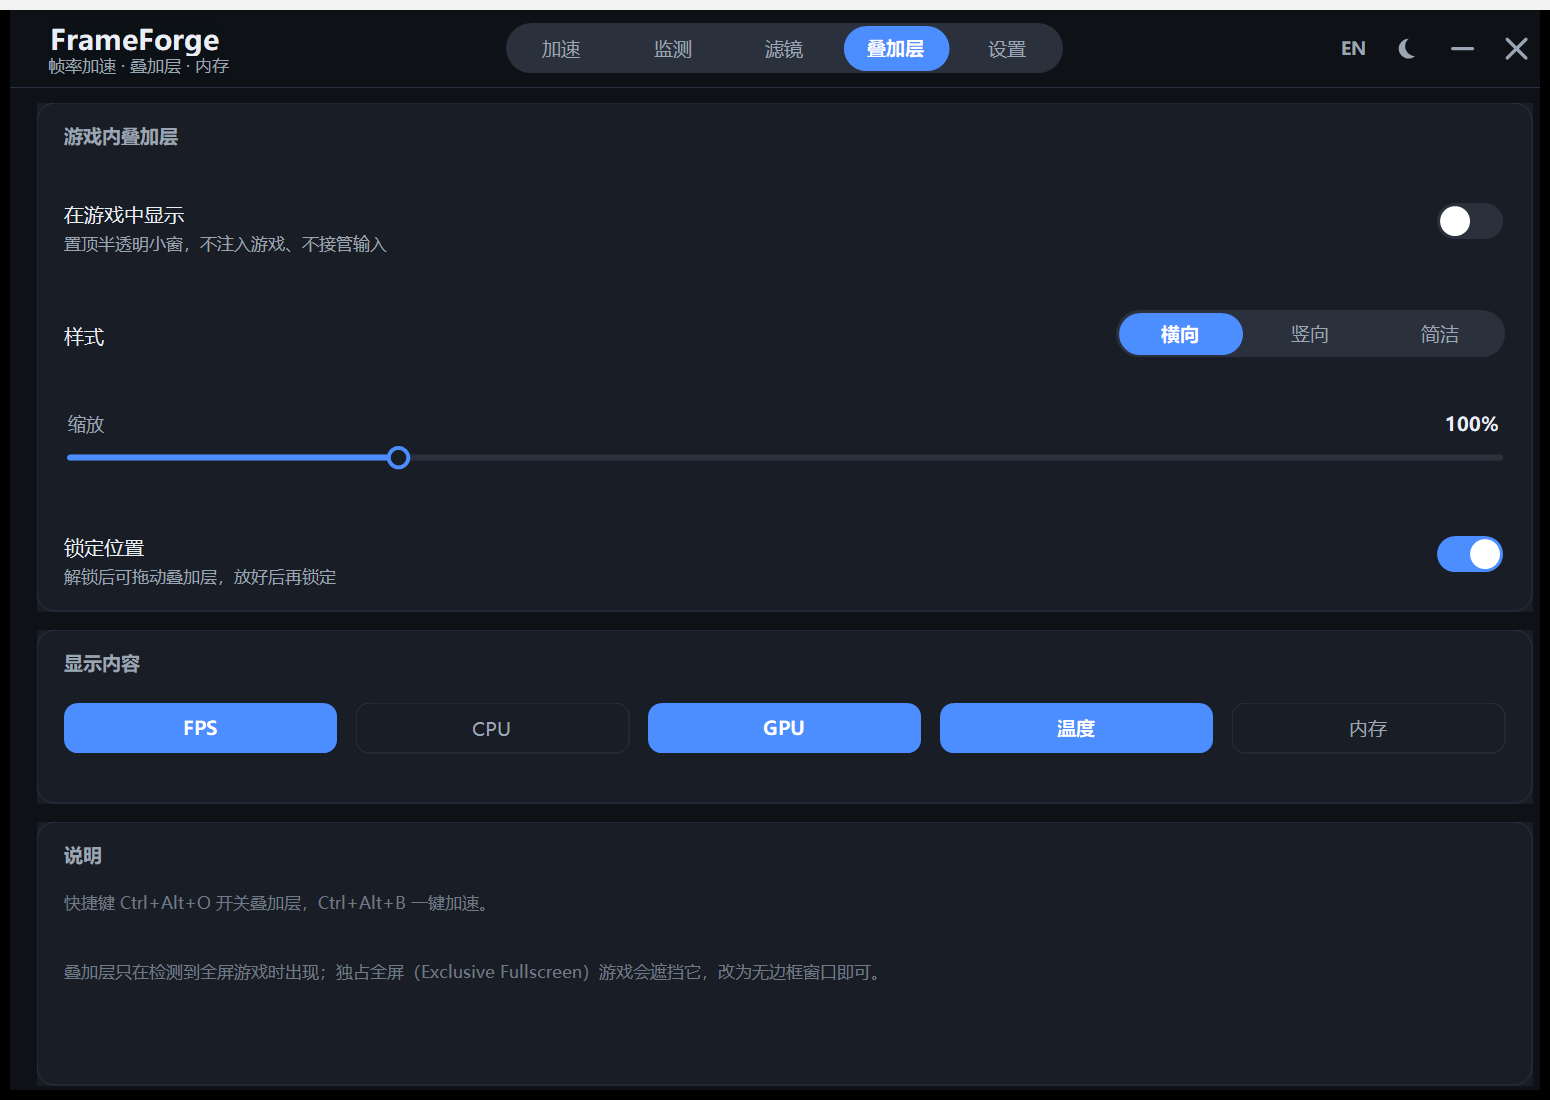
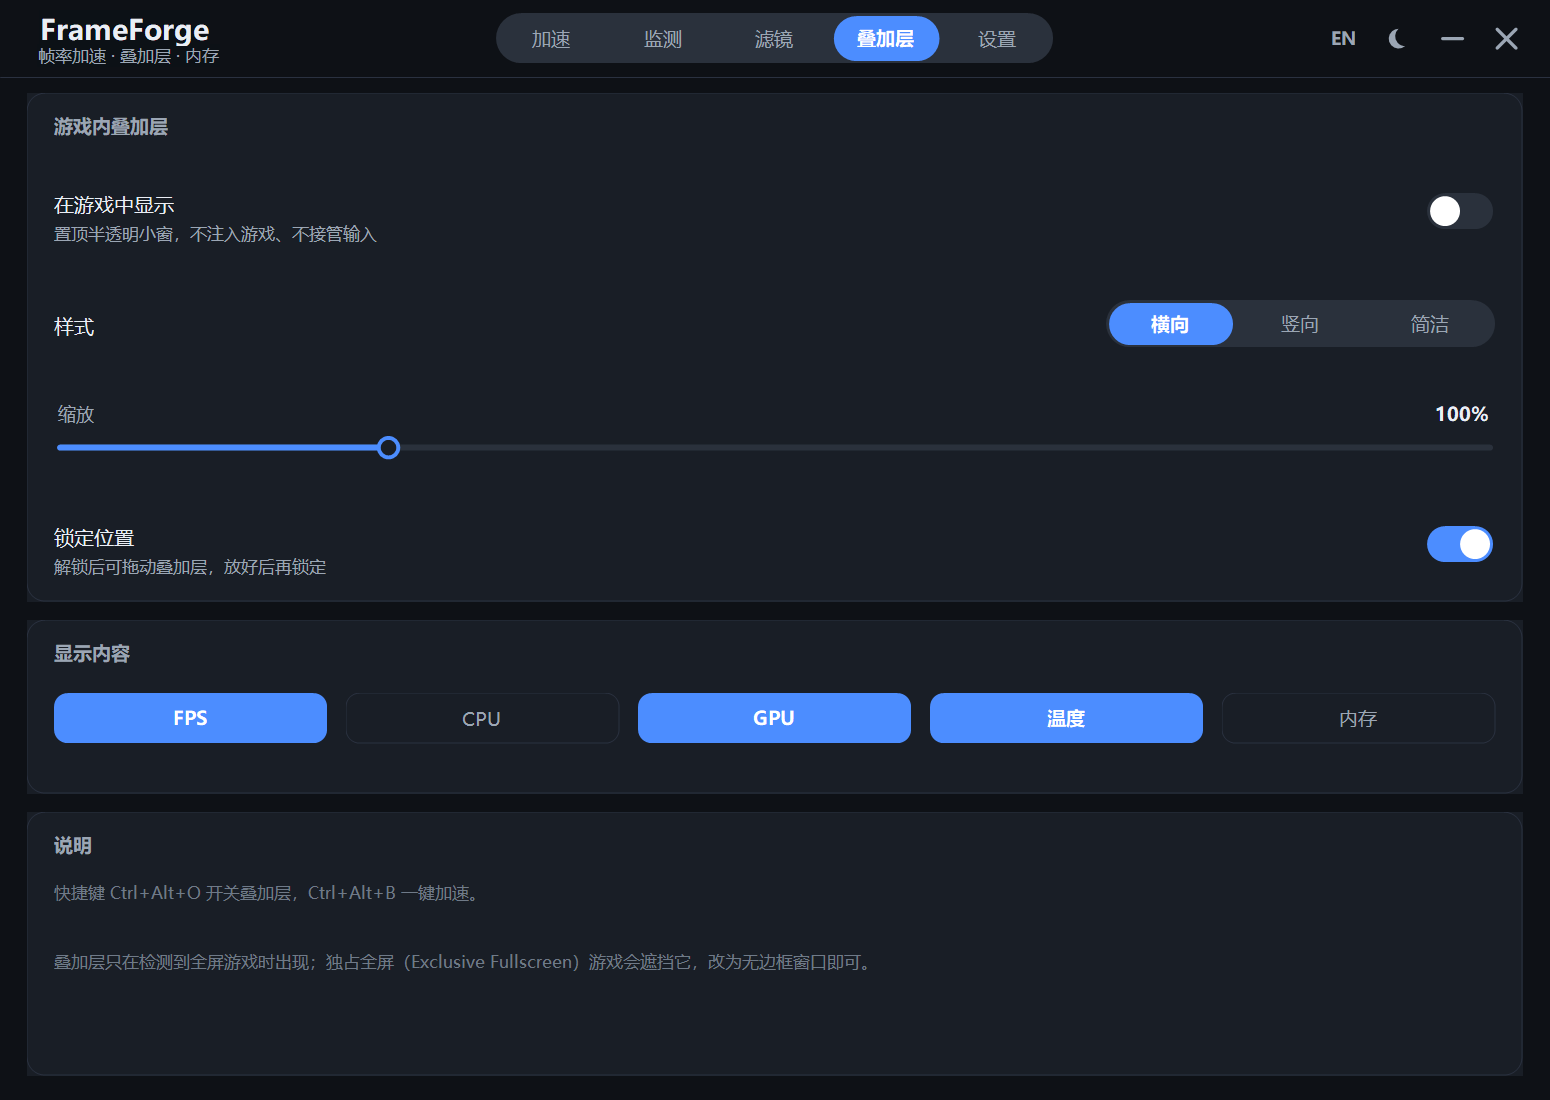
fix: 去掉窗口顶部的系统边框白条，重绘月亮图标
无边框窗口仍带一圈 WS_THICKFRAME 系统边框（用于拖边缘改大小），
DWM 会把它填成系统边框色，深色界面上就是标题栏上方那道白标。
现在用 WM_NCCALCSIZE 让客户区铺满窗口矩形，四边改大小改由 WM_NCHITTEST
自己算热区；最大化时按工作区裁剪，避开任务栏。

月亮图标原来是"实心圆 + BackColor 盖一块"，悬停高亮时会在图标上留下补丁，
改为按两圆交点拼双圆弧路径填充，任何底色下都是干净的月牙。

顺带把 README 的 exe 体积更新为 200 KB，并重新生成夜间截图。

diff --git a/src/UI/MainForm.cs b/src/UI/MainForm.cs
@@ -1,6 +1,7 @@
 using System;
 using System.Drawing;
 using System.Drawing.Drawing2D;
+using System.Runtime.InteropServices;
 using System.Windows.Forms;
 using FrameForge.Sys;
 
@@ -19,6 +20,7 @@ namespace FrameForge.UI
         public BoostEngine Boost;
 
         private const int WM_NCHITTEST = 0x0084;
+        private const int WM_NCCALCSIZE = 0x0083;
         private const int WS_THICKFRAME = 0x00040000;
         private const int WS_MINIMIZEBOX = 0x00020000;
         private const int WS_MAXIMIZEBOX = 0x00010000;
@@ -244,6 +246,28 @@ namespace FrameForge.UI
         {
             base.OnHandleCreated(e);
             RegisterHotkeys();
+            ApplyWindowFrame();
+        }
+
+        /// <summary>
+        /// 无边框窗口仍然保留了一圈 WS_THICKFRAME 的系统边框(拖边缘改大小要用),
+        /// DWM 会给这圈边框描一条 1px 的浅色线——在深色界面上就是标题栏上方那道白边。
+        /// 这里把边框色改成与背景一致(Win11 22000+),更老的系统退化为深色沉浸模式。
+        /// </summary>
+        private void ApplyWindowFrame()
+        {
+            if (!IsHandleCreated) return;
+            try
+            {
+                int dark = Theme.Dark ? 1 : 0;
+                if (Native.DwmSetWindowAttribute(Handle, 20, ref dark, 4) != 0)
+                    Native.DwmSetWindowAttribute(Handle, 19, ref dark, 4);
+
+                Color bg = Theme.Bg;
+                int colorRef = bg.R | (bg.G << 8) | (bg.B << 16);
+                Native.DwmSetWindowAttribute(Handle, 34, ref colorRef, 4);
+            }
+            catch { }
         }
 
         private void OnTick()
@@ -369,15 +393,50 @@ namespace FrameForge.UI
             if (m.Msg == Native.WM_HOTKEY) { HandleHotkey(m.WParam.ToInt32()); return; }
             if (m.Msg == Native.WM_SHOWME) { RestoreFromTray(); return; }
 
+            if (m.Msg == WM_NCCALCSIZE)
+            {
+                if (m.WParam != IntPtr.Zero)
+                {
+                    // 让客户区铺满整个窗口矩形。WS_THICKFRAME 留下的那一圈边框会被 DWM 填成
+                    // 系统边框色:浅色主题下是 #F3F3F3,在深色界面上就是标题栏上方那道白标。
+                    if (WindowState == FormWindowState.Maximized)
+                    {
+                        Native.RECT r = (Native.RECT)Marshal.PtrToStructure(m.LParam, typeof(Native.RECT));
+                        Rectangle wa = Screen.FromHandle(Handle).WorkingArea;
+                        r.Left = wa.Left; r.Top = wa.Top; r.Right = wa.Right; r.Bottom = wa.Bottom;
+                        Marshal.StructureToPtr(r, m.LParam, false);
+                    }
+                    m.Result = IntPtr.Zero;
+                    return;
+                }
+            }
+
             if (m.Msg == WM_NCHITTEST)
             {
                 base.WndProc(ref m);
+                int lp = m.LParam.ToInt32();
+                short sx = unchecked((short)(lp & 0xFFFF));
+                short sy = unchecked((short)((lp >> 16) & 0xFFFF));
+                Point p = PointToClient(new Point(sx, sy));
+
+                // 边框被吃掉后系统不再返回 HTLEFT/HTRIGHT…,四边改大小的热区得自己算。
+                if (WindowState == FormWindowState.Normal)
+                {
+                    int b = Ui.Px(5);
+                    bool left = p.X < b, right = p.X >= ClientSize.Width - b;
+                    bool top = p.Y < b, bottom = p.Y >= ClientSize.Height - b;
+                    if (top && left) { m.Result = (IntPtr)Native.HTTOPLEFT; return; }
+                    if (top && right) { m.Result = (IntPtr)Native.HTTOPRIGHT; return; }
+                    if (bottom && left) { m.Result = (IntPtr)Native.HTBOTTOMLEFT; return; }
+                    if (bottom && right) { m.Result = (IntPtr)Native.HTBOTTOMRIGHT; return; }
+                    if (left) { m.Result = (IntPtr)Native.HTLEFT; return; }
+                    if (right) { m.Result = (IntPtr)Native.HTRIGHT; return; }
+                    if (top) { m.Result = (IntPtr)Native.HTTOP; return; }
+                    if (bottom) { m.Result = (IntPtr)Native.HTBOTTOM; return; }
+                }
+
                 if ((int)m.Result == Native.HTCLIENT)
                 {
-                    int lp = m.LParam.ToInt32();
-                    short sx = unchecked((short)(lp & 0xFFFF));
-                    short sy = unchecked((short)((lp >> 16) & 0xFFFF));
-                    Point p = PointToClient(new Point(sx, sy));
                     if (p.Y >= 0 && p.Y < TitleH()) m.Result = (IntPtr)Native.HTCAPTION;
                 }
                 return;

diff --git a/src/UI/Controls.cs b/src/UI/Controls.cs
@@ -274,11 +274,27 @@ namespace FrameForge.UI
                 {
                     if (Theme.Dark)
                     {
-                        // 月亮:实心圆挖掉一块
-                        using (var b = new SolidBrush(fg))
-                            g.FillEllipse(b, cx - r, cy - r, r * 2, r * 2);
-                        using (var b2 = new SolidBrush(BackColor))
-                            g.FillEllipse(b2, cx - r * 0.35f, cy - r * 1.25f, r * 2.0f, r * 2.0f);
+                        // 月亮:拿两个圆的交点拼出一条双圆弧路径再填充。
+                        // 早先是"画个实心圆,再用 BackColor 盖掉一块"——底色一变(悬停高亮、换页)
+                        // 盖子就会在图标上留下一块补丁,而且盖出来的边没有抗锯齿。
+                        float bx = cx + r * 0.65f, by = cy - r * 0.25f;
+                        double dx = bx - cx, dy = by - cy;
+                        double d2 = Math.Sqrt(dx * dx + dy * dy);
+                        if (d2 < r * 0.1) d2 = r * 0.1;
+                        double proj = d2 / 2.0;                       // 两圆等径,交点连线正好在中间
+                        double half = Math.Sqrt(Math.Max(0.0, (double)r * r - proj * proj));
+                        double baseAng = Math.Atan2(dy, dx) * 180.0 / Math.PI;
+                        double off = Math.Atan2(half, proj) * 180.0 / Math.PI;
+
+                        var ob = new RectangleF(cx - r, cy - r, r * 2, r * 2);
+                        var ib = new RectangleF(bx - r, by - r, r * 2, r * 2);
+                        using (var mp = new GraphicsPath())
+                        {
+                            mp.AddArc(ob, (float)(baseAng + off), (float)(360.0 - off * 2.0));
+                            mp.AddArc(ib, (float)(baseAng + 180.0 + off), (float)(-off * 2.0));
+                            mp.CloseFigure();
+                            using (var b = new SolidBrush(fg)) g.FillPath(b, mp);
+                        }
                     }
                     else
                     {

diff --git a/src/UI/MainForm.Actions.cs b/src/UI/MainForm.Actions.cs
@@ -59,6 +59,7 @@ namespace FrameForge.UI
             Theme.Set(St.Dark);
             Theme.ResetFonts();
             BackColor = Theme.Bg;
+            ApplyWindowFrame();
 
             int idx = activePage;
             if (pages != null)

diff --git a/README.md b/README.md
@@ -1,10 +1,10 @@
 # FrameForge
 
 **一个绿色免安装的 FPS 游戏增效工具：一键加速、实时帧率监测、游戏内叠加层与画面滤镜。**
-单文件 exe 约 145 KB，常驻内存约 20 MB，不注入游戏进程、不安装驱动。
+单文件 exe 约 200 KB，常驻内存约 20 MB，不注入游戏进程、不安装驱动。
 
 **A portable FPS toolkit for Windows: one-click boost, live frame-time monitoring, in-game overlay and screen filters.**
-Single 145 KB executable, ~20 MB resident, no game injection, no kernel driver.
+Single 200 KB executable, ~20 MB resident, no game injection, no kernel driver.
 
 ---
 
